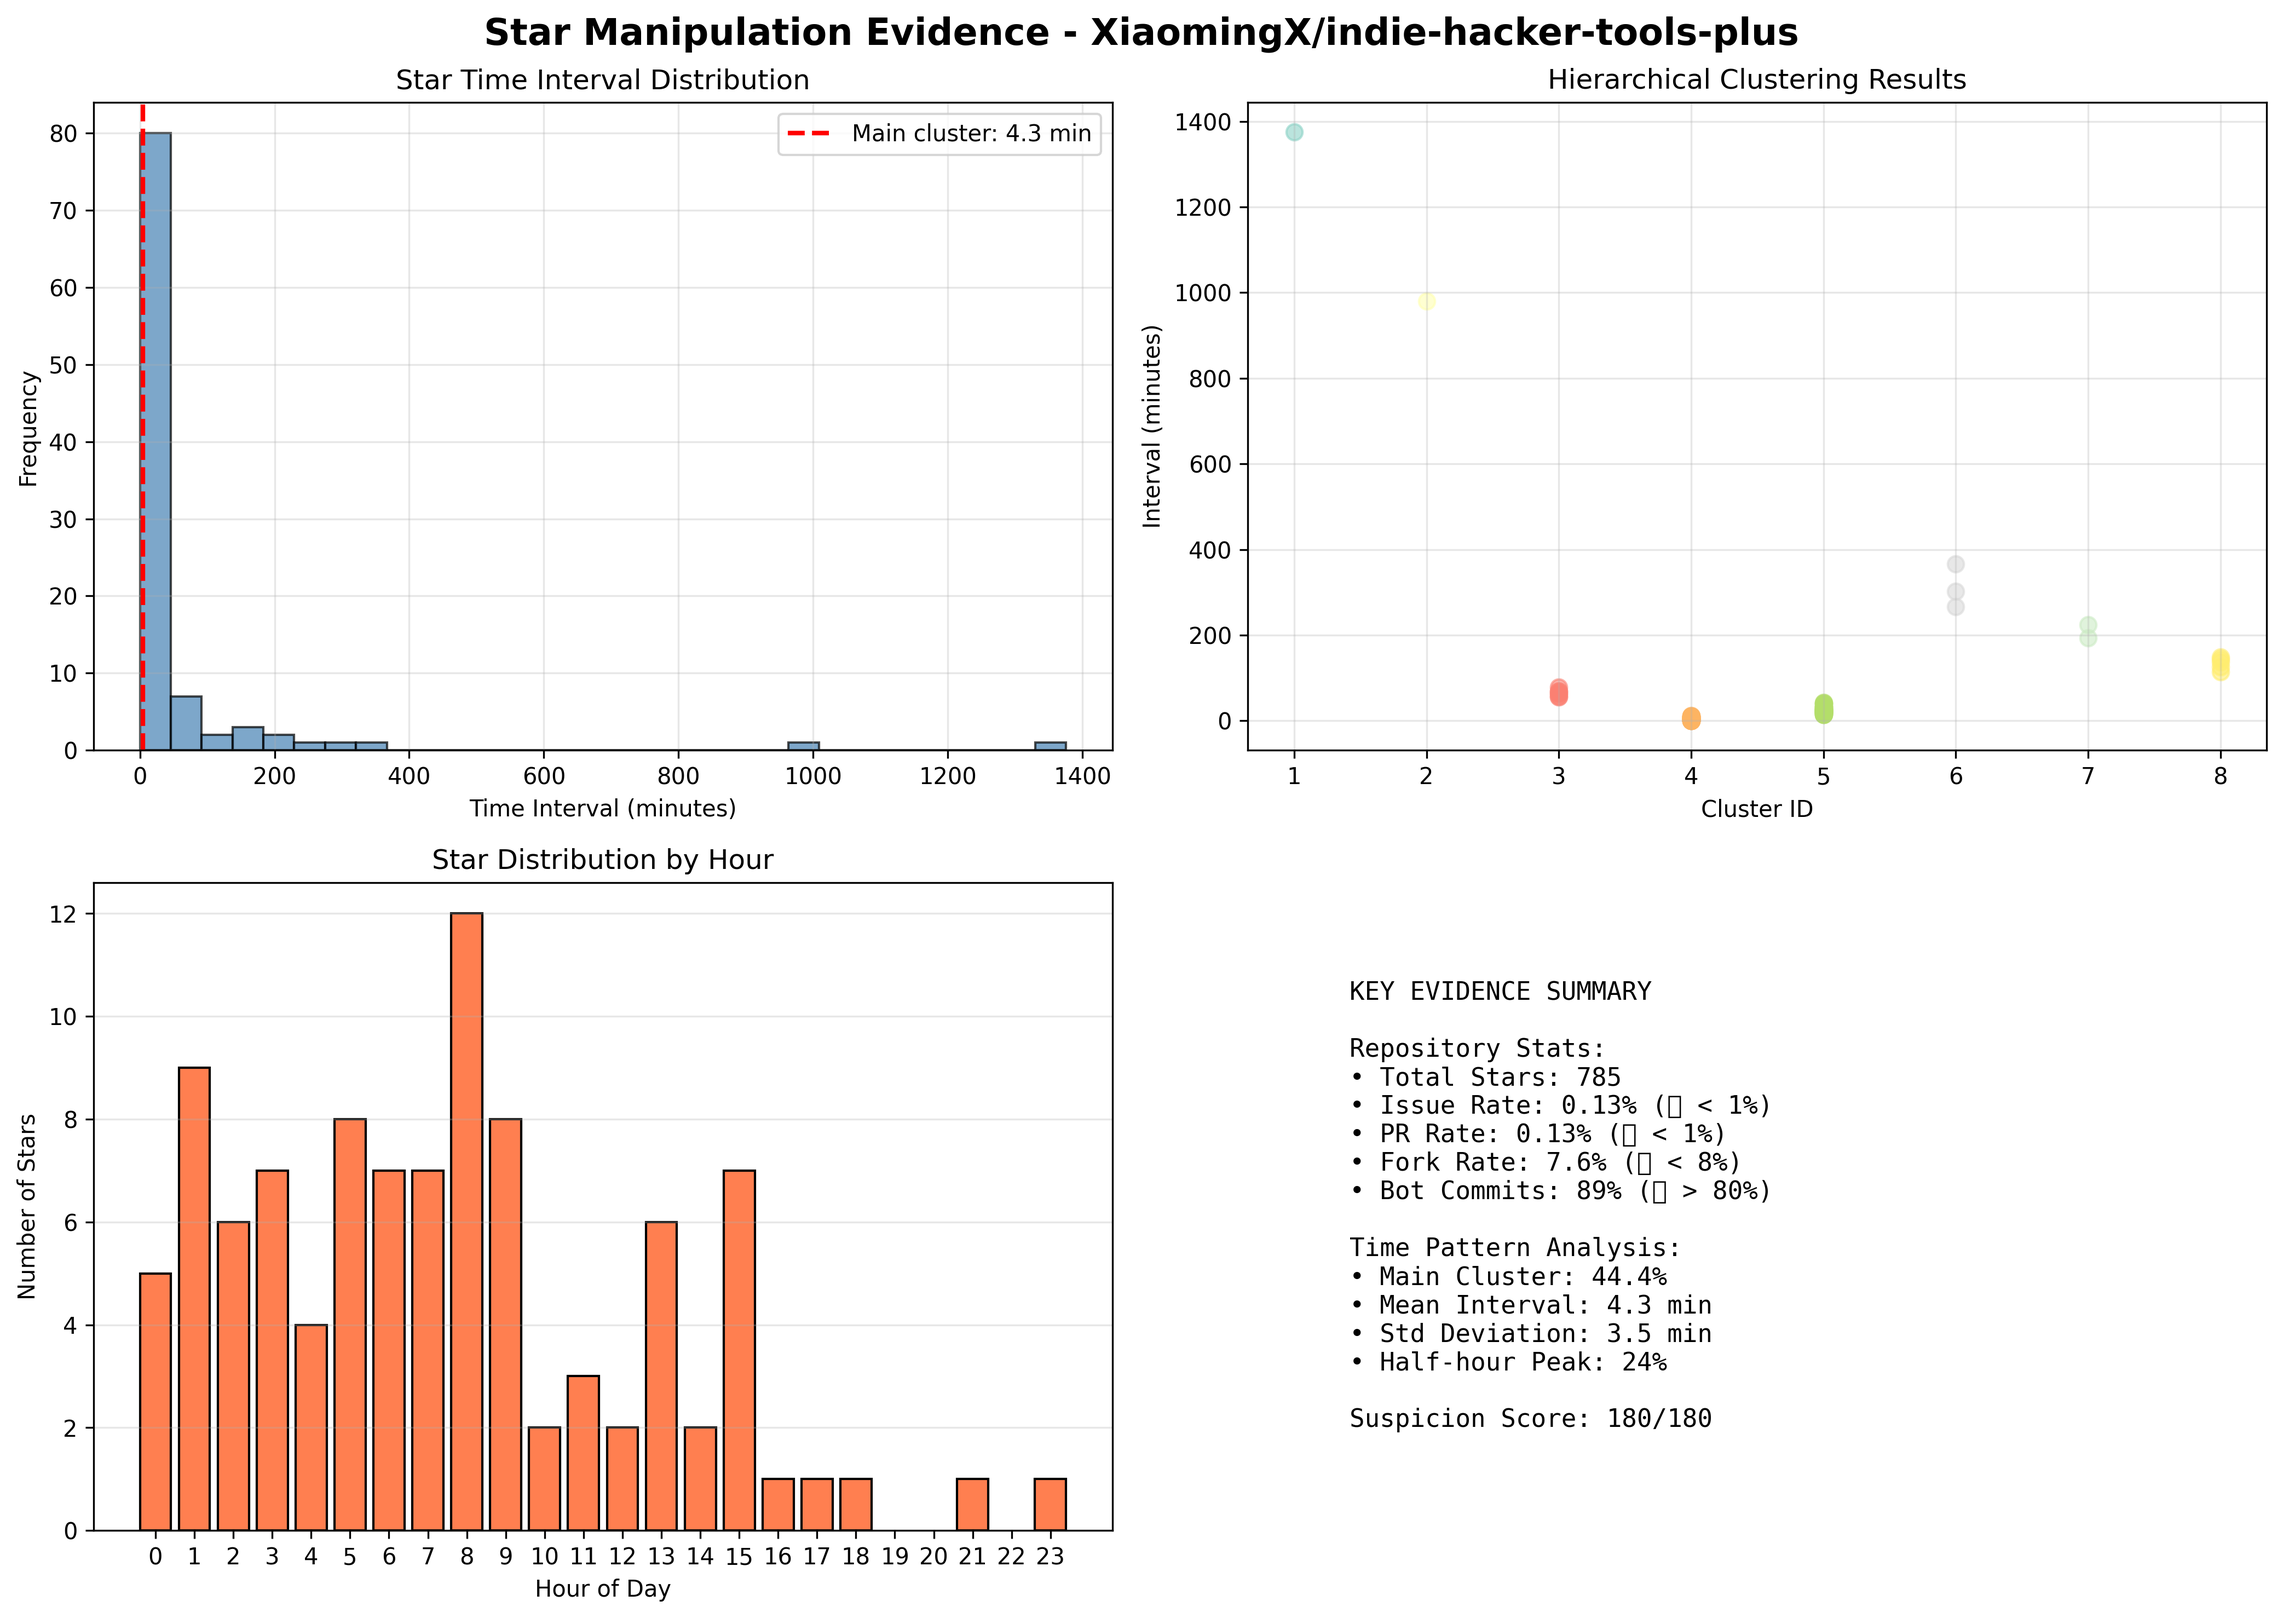
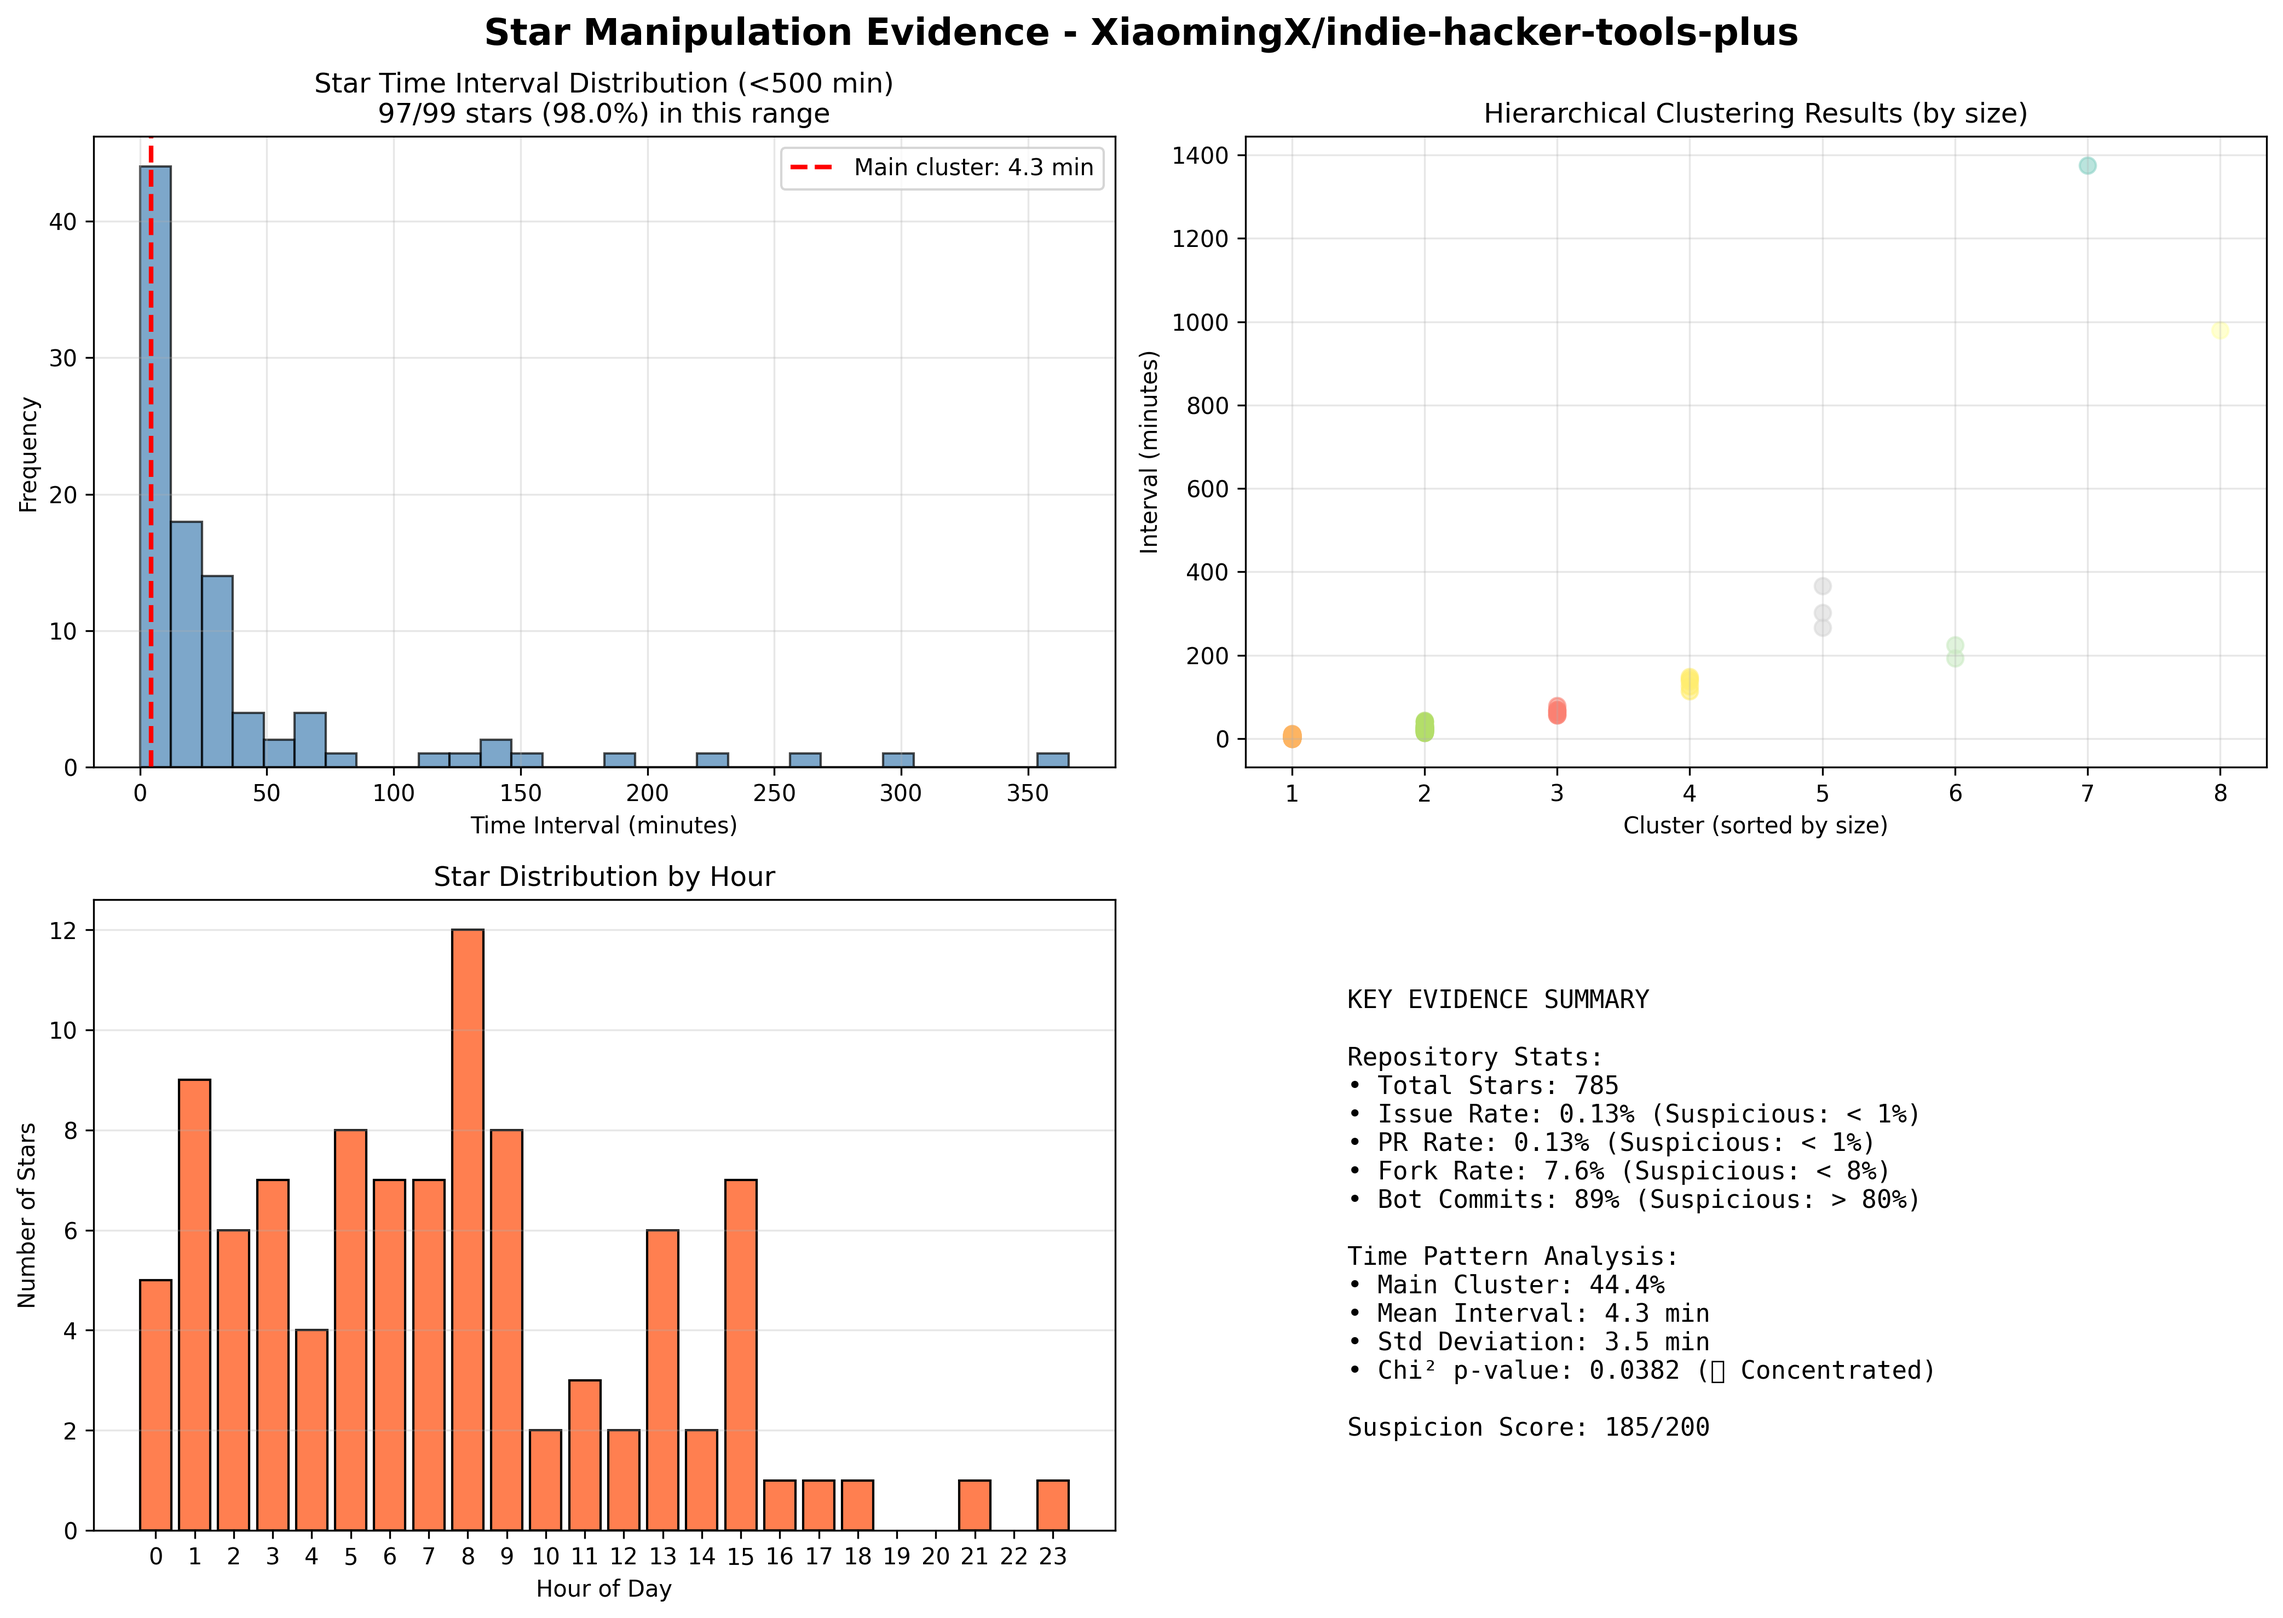
fix

diff --git a/final.py b/final.py
@@ -49,10 +49,9 @@ def create_visualization(owner, repo, report_data, stargazers_data, intervals_mi
     metrics = report_data['metrics']
     main_cluster = metrics.get('main_cluster', {})
     
-    # Calculate half-hour peak
-    star_minutes = [t.minute for t in times]
-    near_half = sum(1 for m in star_minutes if 25 <= m <= 35)
-    half_hour_pct = near_half / len(times) * 100
+    # Get chi-square test results if available
+    chi2_p_value = main_cluster.get('chi2_p_value', None)
+    expected_std = main_cluster.get('expected_std', None)
     
     # Filter data for plot 1: only show intervals < 500 minutes
     intervals_filtered = intervals_min[intervals_min < 500]
@@ -126,6 +125,18 @@ def create_visualization(owner, repo, report_data, stargazers_data, intervals_mi
     fork_status = "Suspicious: < 8%" if metrics['fork_rate'] < 8 else "OK"
     bot_status = "Suspicious: > 80%" if metrics['bot_commit_ratio'] > 80 else "OK"
     
+    # Chi-square test status
+    if chi2_p_value is not None:
+        if chi2_p_value < 0.01:
+            chi2_status = "🔴 Highly Concentrated"
+        elif chi2_p_value < 0.05:
+            chi2_status = "🟡 Concentrated"
+        else:
+            chi2_status = "🟢 Random"
+        chi2_line = f"• Chi² p-value: {chi2_p_value:.4f} ({chi2_status})"
+    else:
+        chi2_line = "• Chi² p-value: N/A"
+    
     metrics_text = f"""
 KEY EVIDENCE SUMMARY
 
@@ -140,7 +151,7 @@ Time Pattern Analysis:
 • Main Cluster: {main_cluster['percentage']:.1f}%
 • Mean Interval: {main_cluster['mean']:.1f} min
 • Std Deviation: {main_cluster['std']:.1f} min
-• Half-hour Peak: {half_hour_pct:.0f}%
+{chi2_line}
 
 Suspicion Score: {report_data['suspicion_score']}/{report_data['max_score']}
     """
@@ -276,12 +287,6 @@ def generate_verdict(owner, repo, report_data):
 ### 6. 批量创建分析 ({evidence['bulk_creation']} 分)
 
 - **判定**: {'🔴 异常 - 发现批量创建' if evidence['bulk_creation'] > 0 else '🟢 正常'}
-
-### 7. 集中性检验 ({evidence['anova_significance']} 分) ⭐ 统计证据
-
-- **判定**: {'🔴 高度显著 - 数据极度集中 (p<0.01)' if evidence['anova_significance'] >= 20 else '🟡 显著 - 数据呈现集中性 (p<0.05)' if evidence['anova_significance'] >= 10 else '🟢 数据符合随机分布'}
-
-{'**说明**: 卡方检验证实数据的标准差显著小于随机期望值，说明时间间隔不是自然发生的，具有明确的规律性和可控性，指向自动化程序。' if evidence['anova_significance'] >= 20 else '**说明**: 数据显示一定的集中性，存在规律性倾向。' if evidence['anova_significance'] >= 10 else '**说明**: 数据波动正常，符合自然随机分布。'}
 
 ---
 

diff --git a/verdict_XiaomingX_indie-hacker-tools-plus.md b/verdict_XiaomingX_indie-hacker-tools-plus.md
@@ -1,12 +1,12 @@
 # 分析报告 - XiaomingX/indie-hacker-tools-plus
 
-> **生成时间**: 2025-12-15 19:11:45
+> **生成时间**: 2025-12-15 19:59:15
 
 ---
 
 ## 🎯 最终判决
 
-### 可疑度评分: **180/180**
+### 可疑度评分: **185/200**
 
 ### 判定结果: **🔴 CONFIRMED MANIPULATION**
 
@@ -68,6 +68,16 @@
 - **标准差**: 3.5 分钟
 - **判定**: 🔴 极度异常 - 程序自动化
 
+#### 卡方方差检验 (Chi-Square Test for Variance)
+- **实际标准差**: 3.47 分钟
+- **期望标准差** (随机基准): 4.30 分钟
+- **χ²统计量**: 28.07
+- **p值**: 0.0382
+- **统计意义**: 🟡 显著 (p<0.05) - 数据呈现集中性
+
+**检验说明**: 对于随机的时间间隔，标准差应≈均值（指数分布特征）。此检验判断数据是否比随机状态更集中。
+
+
 **关键发现**: 标准差<5分钟，44%的star高度集中！这在统计学上不可能是人类行为，明确指向程序自动化控制。
 
 ### 6. 批量创建分析 (25 分)
@@ -90,7 +100,7 @@
 ---
 
 **生成工具**: https://github.com/zly2006/fake-star-detector# v2.0  
-**分析时间**: 2025-12-15 19:11:45  
+**分析时间**: 2025-12-15 19:59:15  
 **报告格式**: Markdown
 
 ---
